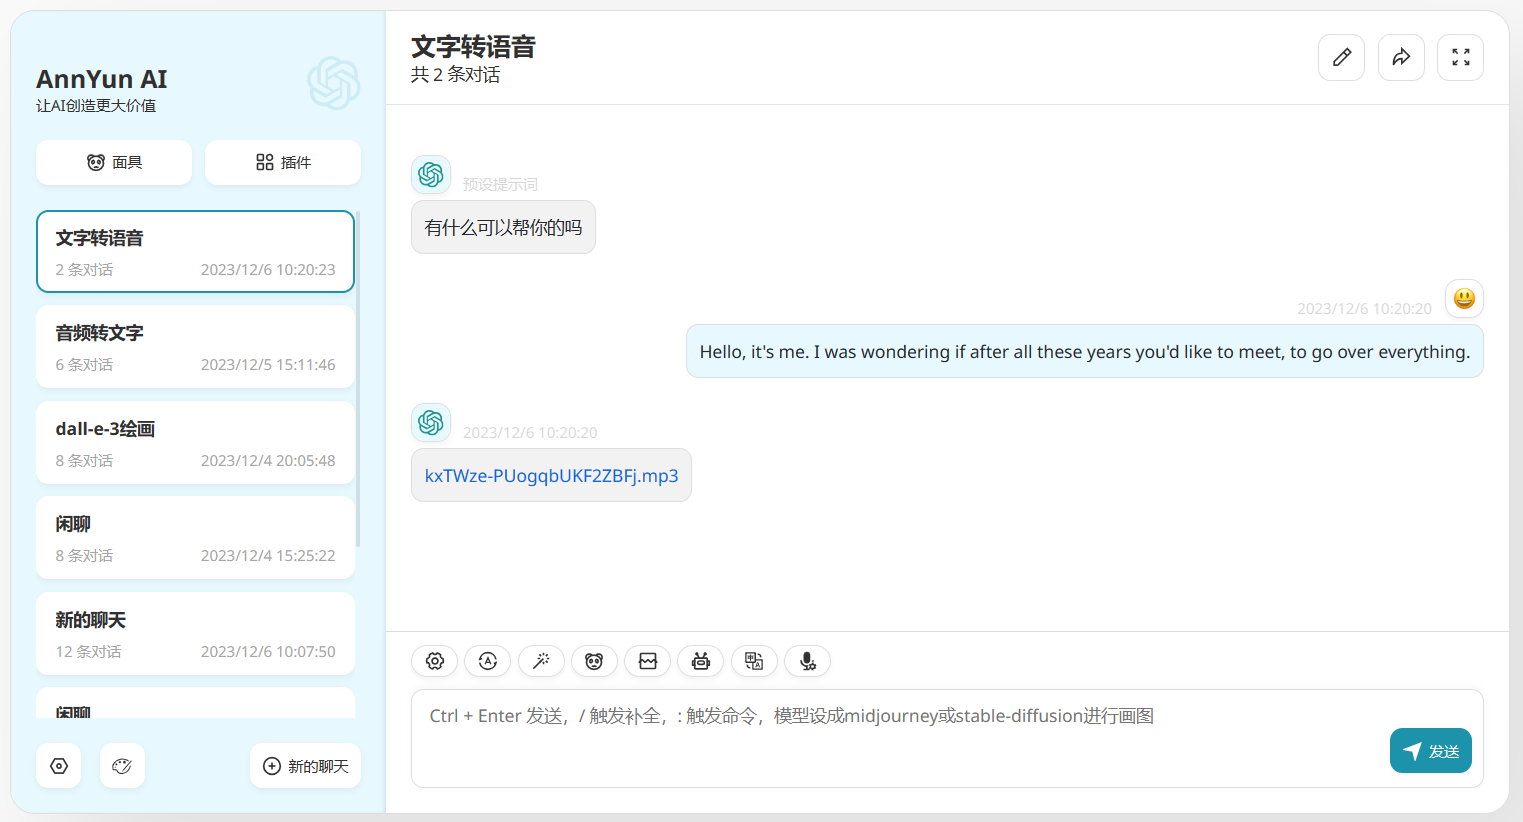
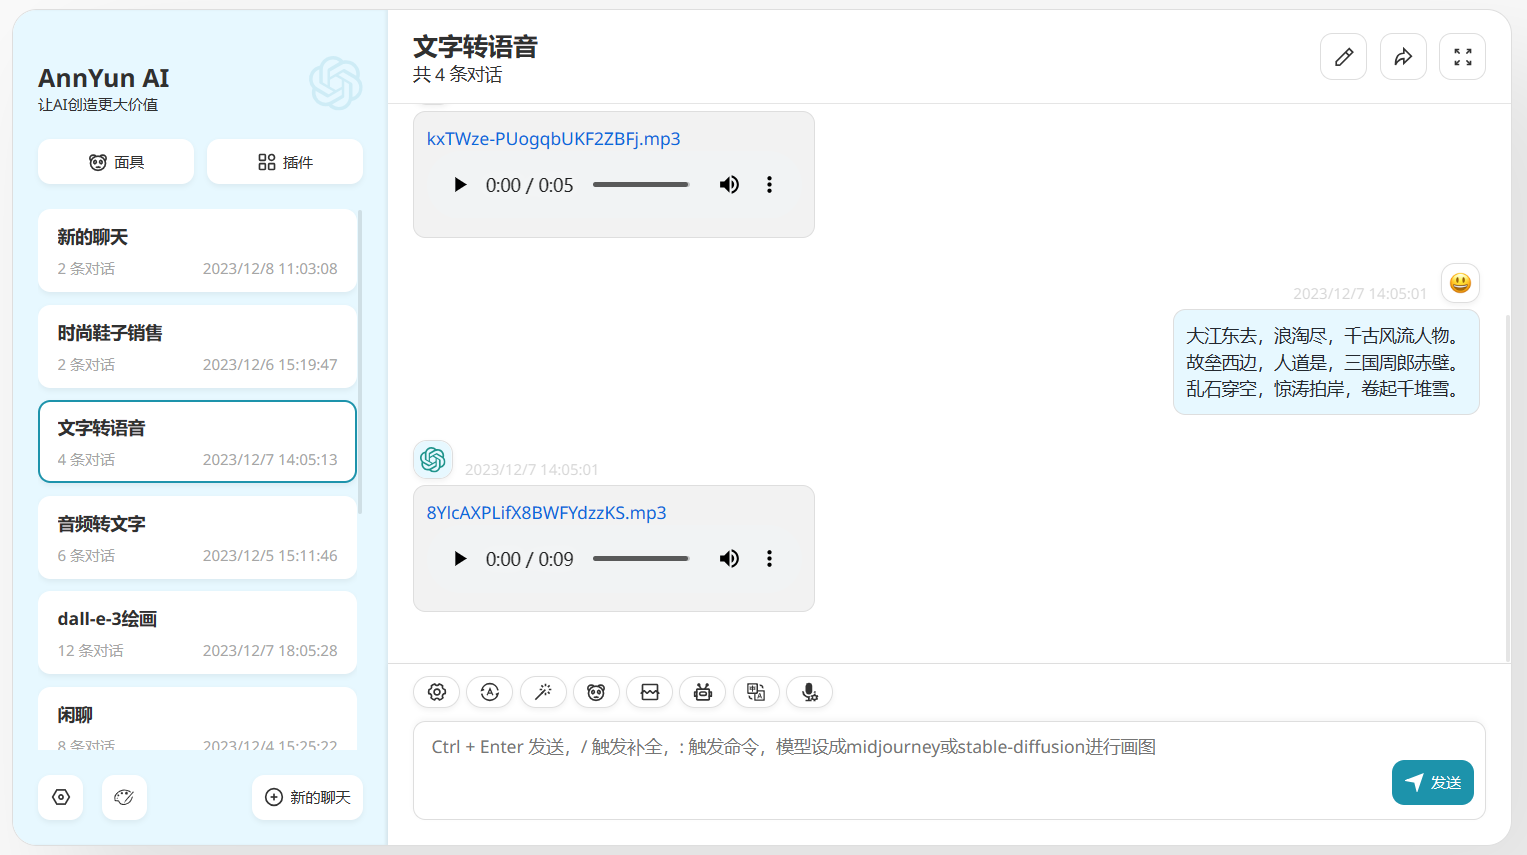
增加音频直接播放功能。

diff --git a/README.md b/README.md
@@ -1,6 +1,6 @@
 ### 版本
 #### 无后端：
-- 版本号：3.5.3，更新日期：2023.12.08
+- 版本号：3.5.4，更新日期：2023.12.08
 
 ### 特性（无后端版本）：
 - 1.完整的[ChatGPT-Next-Web](https://github.com/Yidadaa/ChatGPT-Next-Web)功能，并保持同步更新。最近同步时间：2023.12.07
@@ -15,7 +15,7 @@
 - 10.增加支持gpt4-vision-preview识图功能，可以上传多张图片。建议配合OSS使用，不然受限于浏览器localstorage只有5m，本地聊天记录不保存图片信息，配置了则会保存图片链接。由于国外无法访问国内oss，只会把图片base64发送出去。
 - 11.增加支持dall-e-3功能，兼容dall-e-2。该功能强烈建议配置oss，详细配置请看参数说明及准备说明。因为openai返回的图片url有效期很短，过期了无法访问，如果返回base64，浏览器存不下。
 - 12.增加支持whisper-1音视频转文字功能。该功能也强烈建议配置oss，不然聊天记录不保存文件，影响点击重试。
-- 13.增加支持tts文字转语音功能，该功能必须配置oss，不然返回的文件没地方存。
+- 13.增加支持tts文字转语音功能，语音可以直接播放。该功能必须配置oss，不然返回的文件没地方存。
 - 14.增加设置里可以自定义stable-diffusion接口地址，设置了则用户端请求的时候会使用用户端填的sd地址，如果不想用户设置自定义sd接口地址，则增加环境变量 HIDE_SD_SETTING=1
 
 ### 特性（有后端版本）：
@@ -78,12 +78,12 @@
 
 ### 启动
 ```shell
-docker pull registry.cn-hangzhou.aliyuncs.com/ann-chat/chatgpt-next-web-pro:3.5.3
+docker pull registry.cn-hangzhou.aliyuncs.com/ann-chat/chatgpt-next-web-pro:3.5.4
 
 docker run -d -p 3000:3000 \
   -e OPENAI_API_KEY="sk-xxxx" \
   -e AUTHORIZE_CODE="授权码" \
-  registry.cn-hangzhou.aliyuncs.com/ann-chat/chatgpt-next-web-pro:3.5.3
+  registry.cn-hangzhou.aliyuncs.com/ann-chat/chatgpt-next-web-pro:3.5.4
 ```
 
 ### 授权码价格
